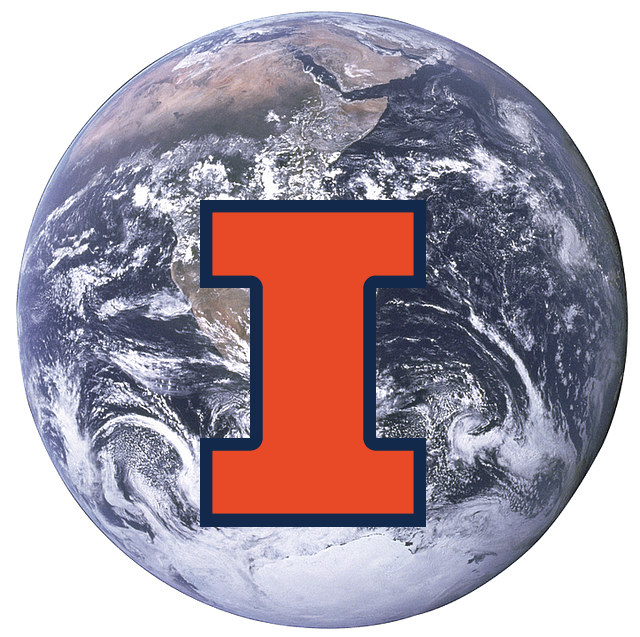
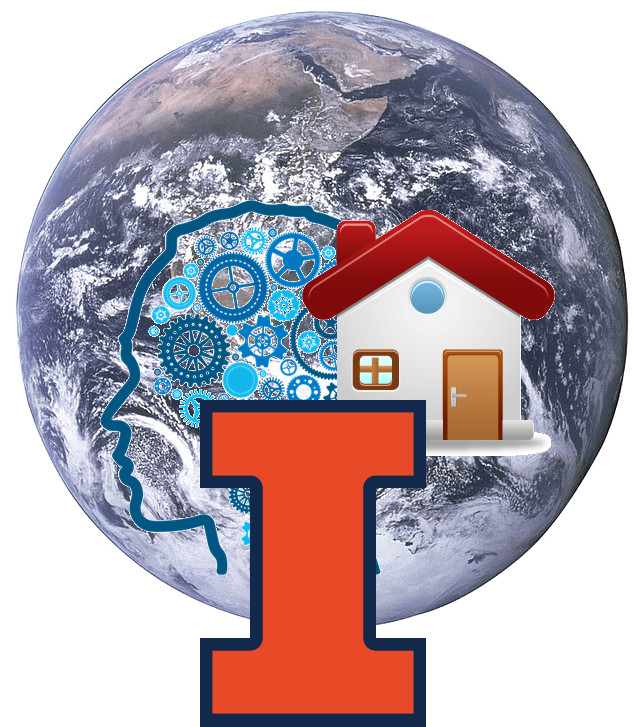
file submission

diff --git a/mp2/main.cpp b/mp2/main.cpp
@@ -9,6 +9,8 @@ int main() {
   //
 Image laptop; laptop.readFromFile("earth.png");
 Image ill; ill.readFromFile("tests/i.png");
+Image coder; coder.readFromFile("coder.png");
+Image home; home.readFromFile("home.png");
 
 // StickerSheet sheet(alma, 3);
 // sheet.addSticker(ill, 200, 200);
@@ -19,7 +21,10 @@ Image ill; ill.readFromFile("tests/i.png");
 //  sheet.removeSticker(0);
 StickerSheet sheet(laptop, 5);
 //sheet.addSticker(ill, 20, 200);
-sheet.addSticker(ill, 200, 200);
+
+sheet.addSticker(coder, 100, 200);
+sheet.addSticker(home, 300, 200);
+sheet.addSticker(ill, 200, 400);
 //s1.addSticker(ill, 40, 200);
 
 //StickerSheet s2(s1);

diff --git a/mp2/StickerSheet.cpp b/mp2/StickerSheet.cpp
@@ -276,9 +276,9 @@ Image StickerSheet::render() const{
   }
 }
   //cout << "LINE : 247" <<endl;
-  Image out;
-  out = *Final;
+  Image realFinal;
+  realFinal = *Final;
     //cout << "LINE : 247" <<endl;
   delete Final; Final = NULL;
-  return out;
+  return realFinal;
 }
